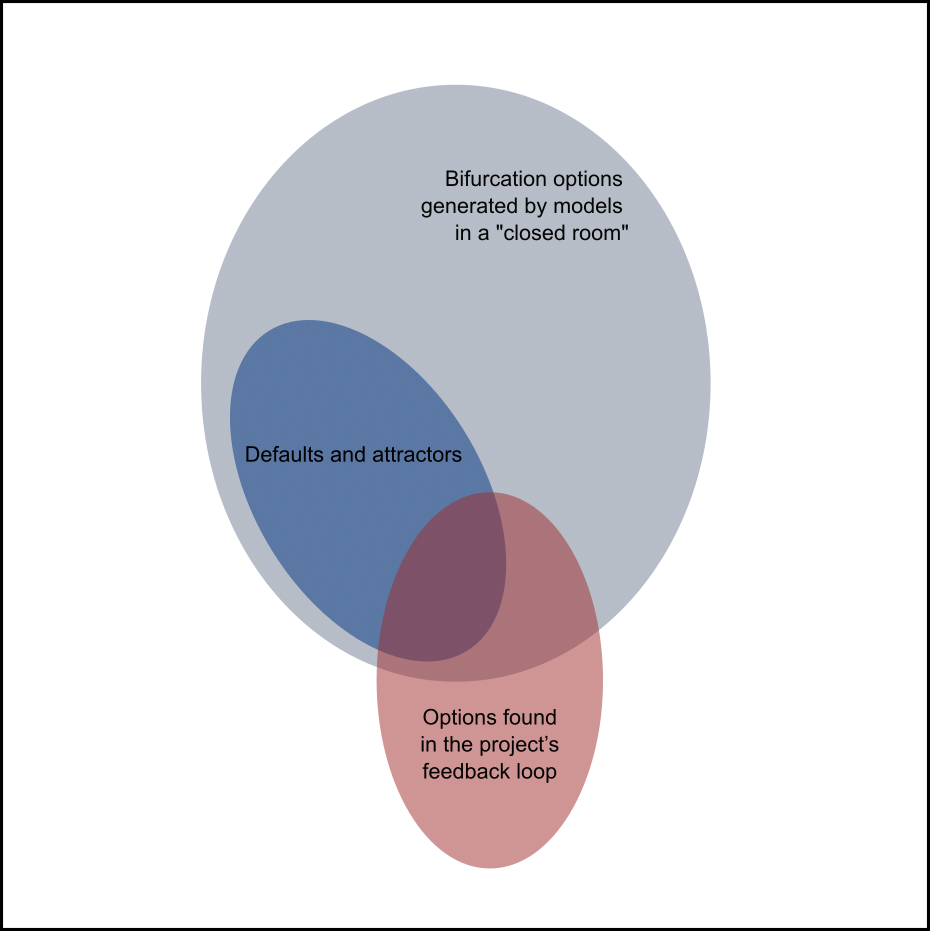
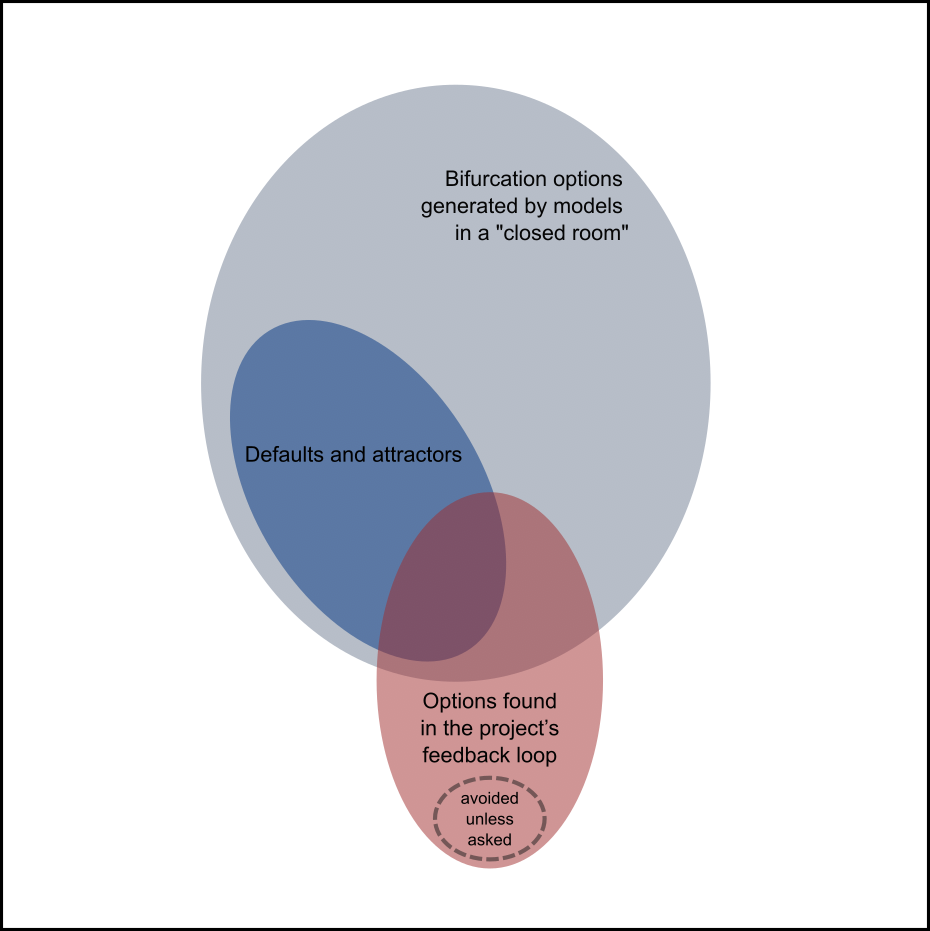
Bifurcation of options: the dashed oval and moderation cases
The diagram gains the researcher's dashed oval, relabelled "avoided
unless asked"; the caption explains it, marks RLHF as a hypothesis and
says why censorship is not drawn. Section 12.5 adds DeepSeek's two
reader-side blocks.

Changed region(s): [[0.4366, 0.7476, 0.6237, 0.9345]]

diff --git a/report/bifurcation-options/README.md b/report/bifurcation-options/README.md
@@ -4,7 +4,7 @@
 
 ![Options generated in a closed room, defaults and attractors, and options found in the project's loop](img/bifurcation-options-sets.png)
 
-*The researcher's diagram (26 November); the label of the red oval revised by Claude. Grey: options that models produce in a "closed room" — from the joke alone, with no pictures, AI readers or human (Part 2, arms A–E). Red: options found in the project's feedback loop — directors working with the curator, image generations and their accidents, AI readers, the curator. Blue: defaults and attractors — what the models produce unasked and keep coming back to ([section 12](#12-attractors-defaults-and-prohibitions-a-register-for-the-cat)). The areas are not to scale. In the tests three models together reproduced 37 of the 69 items of Part 1, including all five image generator defaults; of the items born from pictures, only the bakeneko came up ([section 2](#2-with-axes-the-list-fills-about-halfway)).*
+*The researcher's diagram (26 November; the dashed oval added by the researcher the same evening); the labels of the red and the dashed ovals revised by Claude. Grey: options that models produce in a "closed room" — from the joke alone, with no pictures, AI readers or human (Part 2, arms A–E). Red: options found in the project's feedback loop — directors working with the curator, image generations and their accidents, AI readers, the curator. Blue: defaults and attractors — what the models produce unasked and keep coming back to ([section 12](#12-attractors-defaults-and-prohibitions-a-register-for-the-cat)). Dashed: what the models avoid unless asked — above all the harsh, social reading of the joke: the cat as a stranger, discrimination, xenophobia. In the project it came from the curator; in arms A–E it did not come ([section 7](#7-arm-e-the-screenwriter-the-director-artist-and-the-visual-languages); the list is in [12.7](#127-what-the-models-leave-out-unasked)). Why the models avoid it is not established: safety tuning (RLHF) is a hypothesis, and these data do not separate it from the plain rarity of such a reading. Censorship is not drawn: what a model refuses to produce cannot become a product of the project. The refusals met in the cat work were local, one model and one request at a time, and another model did the work ([12.5](#125-image-generator-problems)). The areas are not to scale. In the tests three models together reproduced 37 of the 69 items of Part 1, including all five image generator defaults; of the items born from pictures, only the bakeneko came up ([section 2](#2-with-axes-the-list-fills-about-halfway)).*
 
 **Contents.** [Part 1. Bifurcation of options](#part-1-bifurcation-of-options) · [Part 2. Can a model draw up the list itself?](#part-2-can-a-model-draw-up-the-list-itself) · [12. Attractors, defaults and prohibitions](#12-attractors-defaults-and-prohibitions-a-register-for-the-cat) · [The prompts](#the-prompts)
 
@@ -688,7 +688,7 @@ Gemini's prompts to its generator are not visible, so it is not in the count.
 | **Errors of meaning** | the order served after all; a final "?" over the waiter that makes him look stupid |
 | **An "improving" pass** | +37% brightness, the faces' acting wiped out |
 | **The generator rewrites the lines** | "I'll pimp you out!", "bankrupt the system" (Gemini, after Reiser, September); "the hell" (26 November) |
-| **Moderation** | ChatGPT's agent, "its" and Reiser's name: refused at the input ("other"); ChatGPT on the web: "similarity to third-party content" (26 November) |
+| **Moderation** | ChatGPT's agent, "its" and Reiser's name: refused at the input ("other"); ChatGPT on the web: "similarity to third-party content" (26 November). Not the generator but a reader: DeepSeek did not read the noir cover ([test 45](../../tests/45-noir-context-cover/README.md), 8 October) and hung on a red-ink pair from another joke (2 October); the researcher puts both down to its policy |
 
 ### 12.6. Illogical choices
 

diff --git a/tests/README.md b/tests/README.md
@@ -30,7 +30,7 @@ In each test an image was shown to four chat models — ChatGPT, Claude, Gemini 
 | [42](42-dragon-tooth-corrected/README.md) | 5 Oct 2026 | The dragon's tooth, corrected | [42-dragon-tooth-corrected.jpg](../images/tests/42-dragon-tooth-corrected.jpg) | [Detail ladder](../method/protocols.md#detail-ladder) | [Noir, a Fork, and a Dragon's Tooth](../report/psychological-tests/README.md) |
 | [43](43-manga-false-hint-cup/README.md) | 7 Oct 2026 | The manga: a false hint (the cup) | [38-1-manga-page-1.jpg](../images/tests/38-1-manga-page-1.jpg), [38-2-manga-page-2.jpg](../images/tests/38-2-manga-page-2.jpg) | [False-hint control](../method/protocols.md#false-hint-control) | [Noir, a Fork, and a Dragon's Tooth](../report/psychological-tests/README.md) |
 | [44](44-dragon-tooth-false-hint-heads/README.md) | 7 Oct 2026 | The dragon's tooth: a false hint (four heads) | [42-dragon-tooth-corrected.jpg](../images/tests/42-dragon-tooth-corrected.jpg) | [False-hint control](../method/protocols.md#false-hint-control) | [Noir, a Fork, and a Dragon's Tooth](../report/psychological-tests/README.md) |
-| [45](45-noir-context-cover/README.md) | 8 Oct 2026 | Noir with a cover as context | [45-0-noir-cover-tokyo-night-shift.jpg](../images/tests/45-0-noir-cover-tokyo-night-shift.jpg), [45-1-noir-page-1.jpg](../images/tests/45-1-noir-page-1.jpg), [45-2-noir-page-2-envelope.jpg](../images/tests/45-2-noir-page-2-envelope.jpg) | [Context given as pictures](../method/protocols.md#context-given-as-pictures) | [Noir, a Fork, and a Dragon's Tooth](../report/psychological-tests/README.md) |
+| [45](45-noir-context-cover/README.md) | 8 Oct 2026 | Noir with a cover as context | [45-0-noir-cover-tokyo-night-shift.jpg](../images/tests/45-0-noir-cover-tokyo-night-shift.jpg), [45-1-noir-page-1.jpg](../images/tests/45-1-noir-page-1.jpg), [45-2-noir-page-2-envelope.jpg](../images/tests/45-2-noir-page-2-envelope.jpg) | [Context given as pictures](../method/protocols.md#context-given-as-pictures) | [Noir, a Fork, and a Dragon's Tooth](../report/psychological-tests/README.md), [Bifurcation of options](../report/bifurcation-options/README.md) |
 | [46](46-dragon-tooth-context-sheets/README.md) | 8 Oct 2026 | The dragon's tooth with sibling sheets as context | [46-0-tooth-context-sheets.jpg](../images/tests/46-0-tooth-context-sheets.jpg), [46-1-dragon-tooth-cleaned.jpg](../images/tests/46-1-dragon-tooth-cleaned.jpg) | [Context given as pictures](../method/protocols.md#context-given-as-pictures) | [Noir, a Fork, and a Dragon's Tooth](../report/psychological-tests/README.md) |
 | [47](47-manga-kanmidokoro-notes/README.md) | 8 Oct 2026 | The manga in a kanmidokoro, with the notes page first | [47-0-kanmidokoro-notes-page.jpg](../images/tests/47-0-kanmidokoro-notes-page.jpg), [47-1-manga-kanmidokoro-page-1.jpg](../images/tests/47-1-manga-kanmidokoro-page-1.jpg), [47-2-manga-kanmidokoro-page-2.jpg](../images/tests/47-2-manga-kanmidokoro-page-2.jpg) | [Context given as pictures](../method/protocols.md#context-given-as-pictures) | [Noir, a Fork, and a Dragon's Tooth](../report/psychological-tests/README.md) |
 | [48](48-cave-planetarium-gemini/README.md) | 9 Oct 2026 | Plato's cave, a lighter version by Gemini | [48-cave-planetarium-gemini.jpg](../images/tests/48-cave-planetarium-gemini.jpg) | [Named-concept question](../method/protocols.md#named-concept-question) | [Noir, a Fork, and a Dragon's Tooth](../report/psychological-tests/README.md), [Mysterious picture](../report/plato-cave/README.md) |
